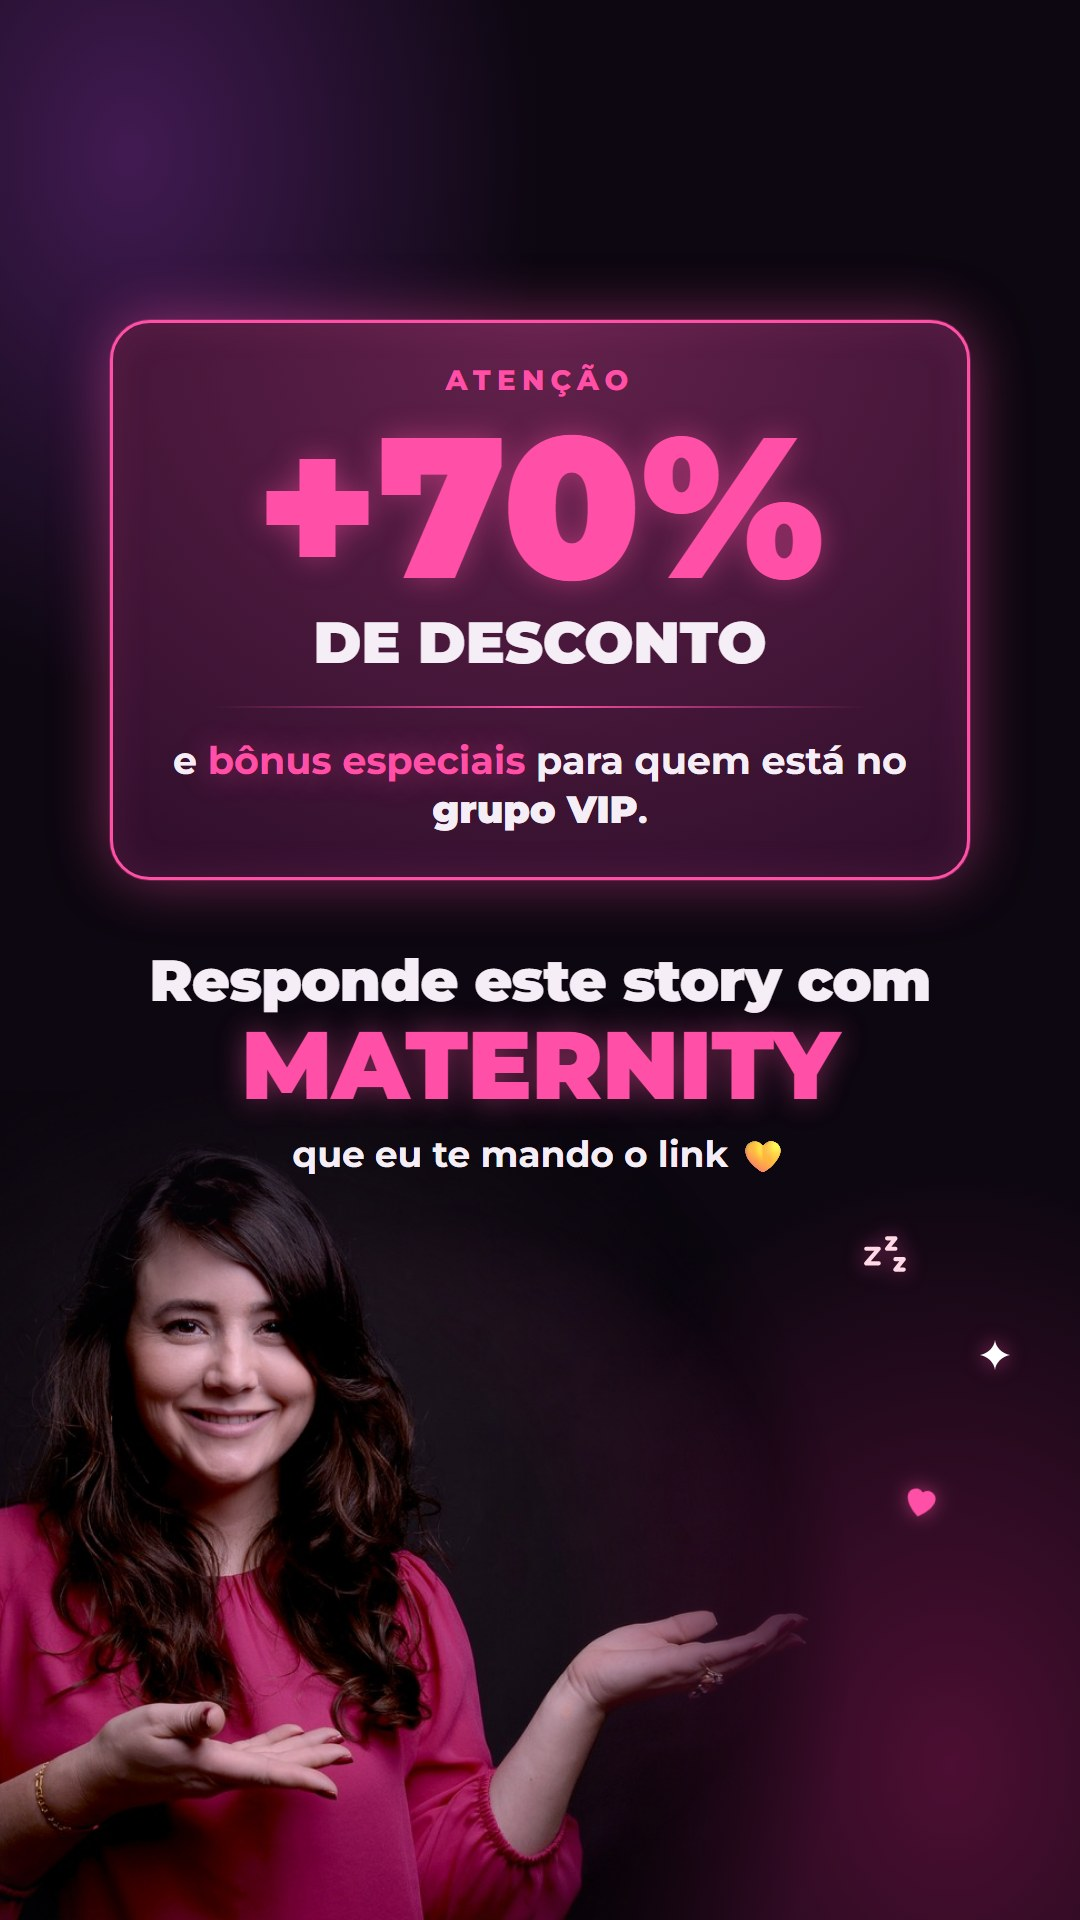
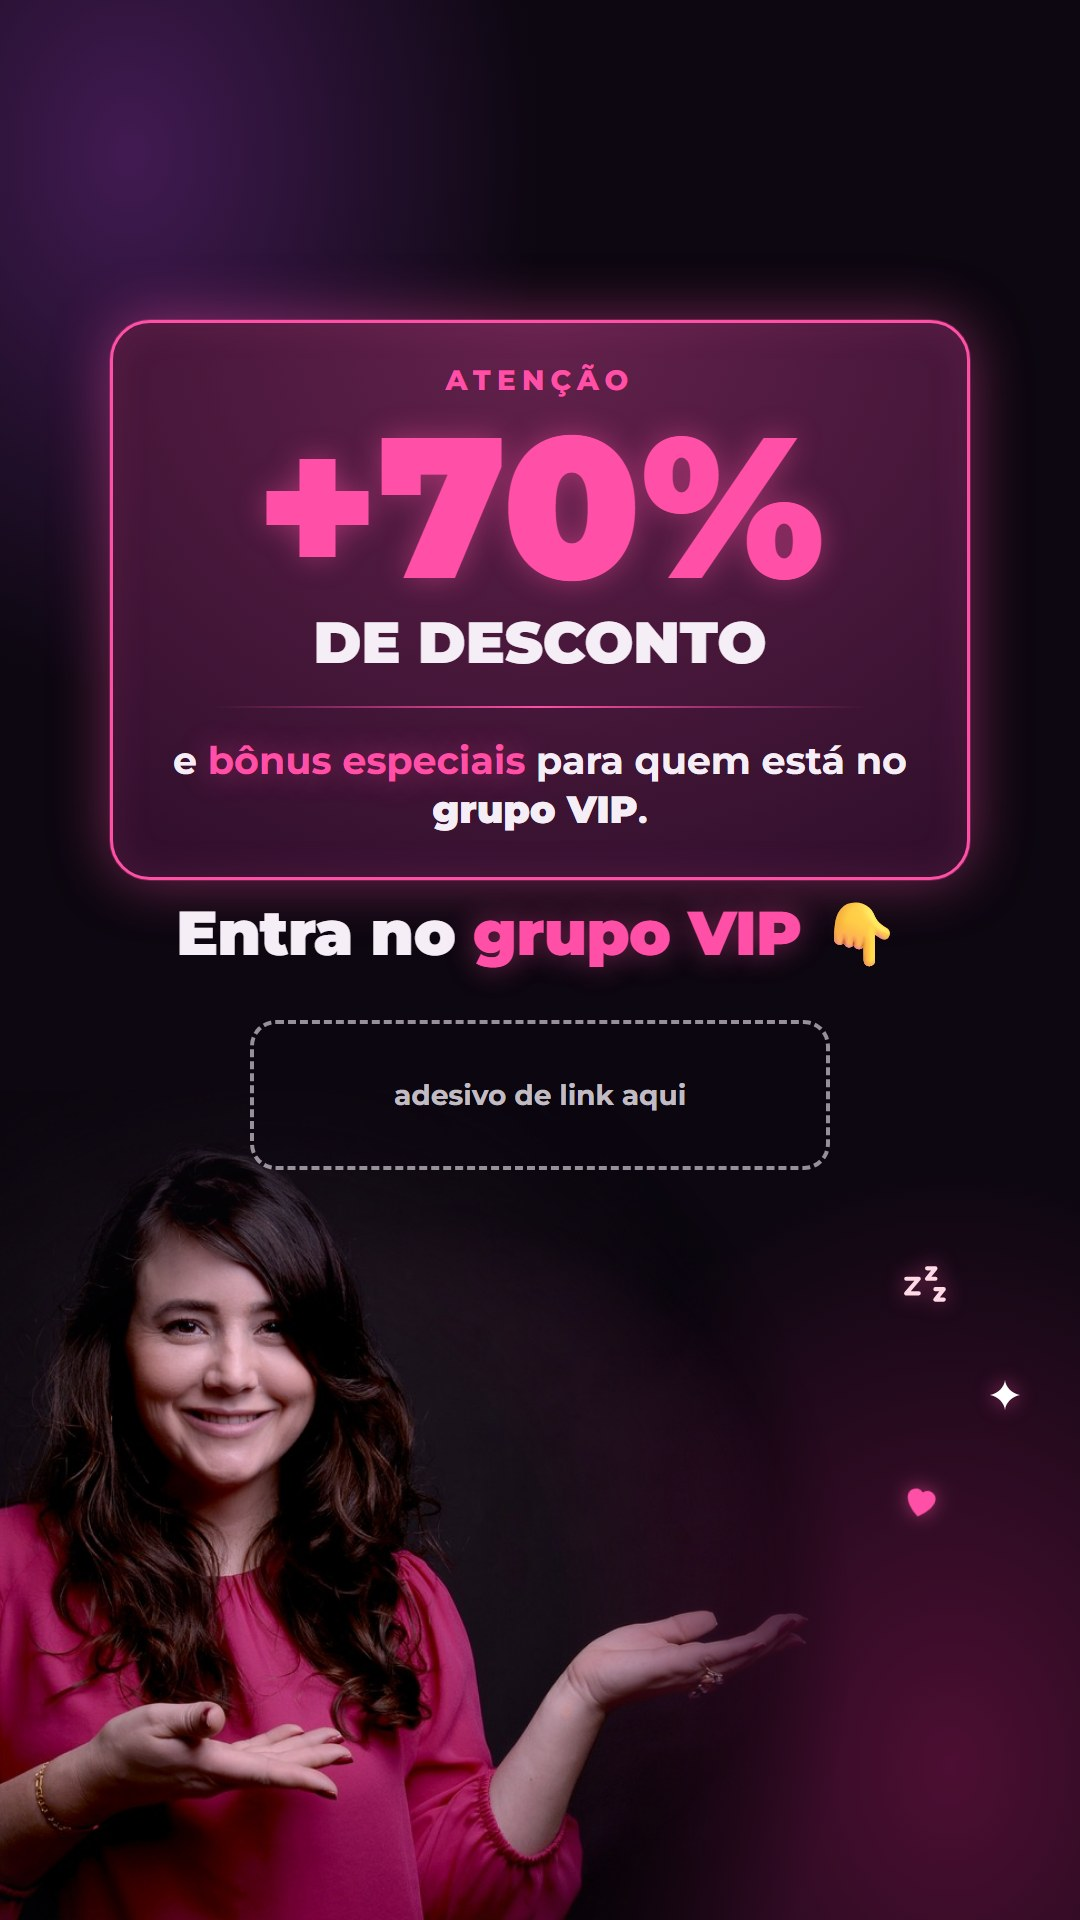
previa: story 3 com espaco do link + foto de perfil da Black

Changed region(s): [[0.1222, 0.4688, 0.8556, 0.625], [0.7944, 0.625, 0.8861, 0.6875], [0.9167, 0.6875, 0.9472, 0.75]]

diff --git a/2026-11-09-carrossel-black-maternity/index.html b/2026-11-09-carrossel-black-maternity/index.html
@@ -23,10 +23,12 @@ pre{white-space:pre-wrap;background:#1B0F22;border:1px solid #3A2346;border-radi
 <h2>Última lâmina (vai uma das duas)</h2><p class="n">O post fecha com a arte ou com o vídeo da Day, alternando ao agendar.</p>
 <div class="fin"><figure><img src="06.jpg?v=2" alt="Final arte"><div>Arte: Comenta MATERNITY</div></figure>
 <figure><video src="video.mp4" controls playsinline preload="metadata" poster="06.jpg?v=2"></video><div>Vídeo da Day</div></figure></div>
-<h2>Stories (sequência de 3)</h2><p class="n">Mesma pegada do carrossel. A pessoa responde o story com MATERNITY e recebe o link no direct.</p>
-<div class="car"><figure class='st'><img src='story1.jpg?v=2' alt='Story 1' loading='lazy'><figcaption>1</figcaption></figure><figure class='st'><img src='story2.jpg?v=2' alt='Story 2' loading='lazy'><figcaption>2</figcaption></figure><figure class='st'><img src='story3.jpg?v=3' alt='Story 3' loading='lazy'><figcaption>3</figcaption></figure></div>
+<h2>Stories (sequência de 3)</h2><p class="n">Mesma pegada do carrossel. O 3º leva o adesivo de link do Instagram no retângulo tracejado (fica fixado nos destaques), com este link:<br><span style="word-break:break-all;color:#F6EEF7">https://black.manualdorecemnascido.com.br/vip?origem=stories&amp;utm_campaign=destaque-bm</span></p>
+<div class="car"><figure class='st'><img src='story1.jpg?v=2' alt='Story 1' loading='lazy'><figcaption>1</figcaption></figure><figure class='st'><img src='story2.jpg?v=2' alt='Story 2' loading='lazy'><figcaption>2</figcaption></figure><figure class='st'><img src='story3.jpg?v=4' alt='Story 3' loading='lazy'><figcaption>3</figcaption></figure></div>
 <h2>Stories 11.11 · Ofertas Maternas</h2><p class="n">Plantão das 6h às 24h nos grupos. No 3º, o retângulo tracejado é onde entra o adesivo de link do Instagram, com este link:<br><span style="word-break:break-all;color:#F6EEF7">https://brunotropolis.github.io/bio-ofertas-maternas/?utm_source=instagram&amp;utm_medium=stories&amp;utm_campaign=black-1111</span></p>
 <div class="car"><figure class='st'><img src='of1.jpg?v=3' alt='Story Ofertas 1' loading='lazy'><figcaption>1</figcaption></figure><figure class='st'><img src='of2.jpg?v=3' alt='Story Ofertas 2' loading='lazy'><figcaption>2</figcaption></figure><figure class='st'><img src='of3.jpg?v=3' alt='Story Ofertas 3' loading='lazy'><figcaption>3</figcaption></figure></div>
+<h2>Foto de perfil da Black</h2><p class="n">Como fica no círculo do Instagram. Toque na imagem para abrir o arquivo em tamanho cheio (1080x1080).</p>
+<a href="perfil_black.png"><img src="perfil_black.png?v=1" alt="Foto de perfil Black" style="width:260px;height:260px;border-radius:50%;display:block;margin:0 auto;box-shadow:0 0 30px rgba(255,79,166,.4)"></a>
 <h2>Legenda</h2><pre>A melhor hora para se preparar para o bebê é antes dele chegar. 🤰
 
 Na Black Maternity você chega em casa sabendo o que fazer, da primeira mamada ao primeiro ano. Mais de 70% de desconto e bônus especiais no grupo VIP.
